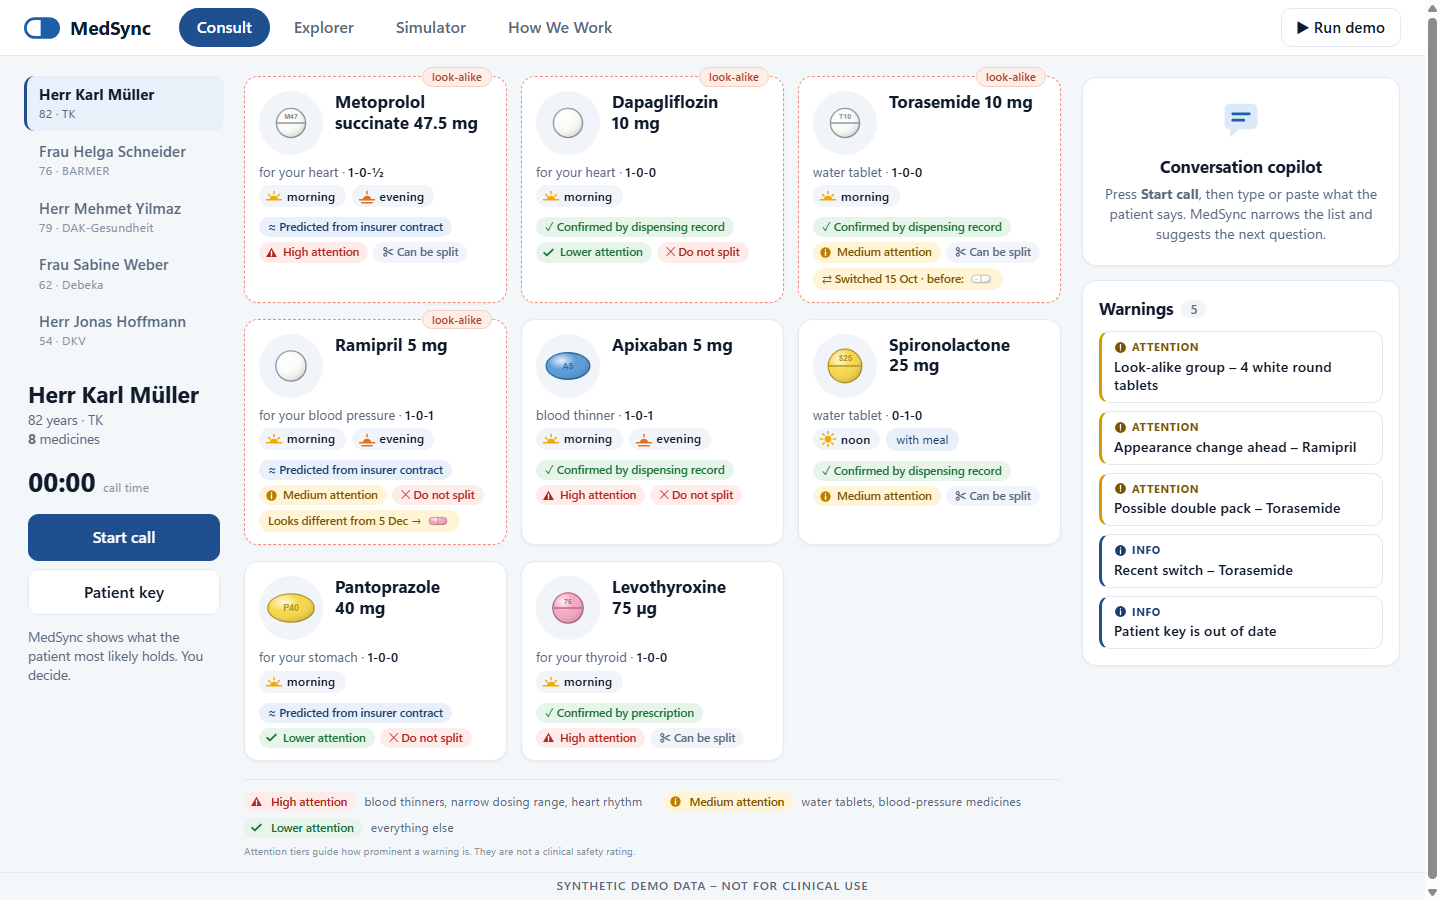
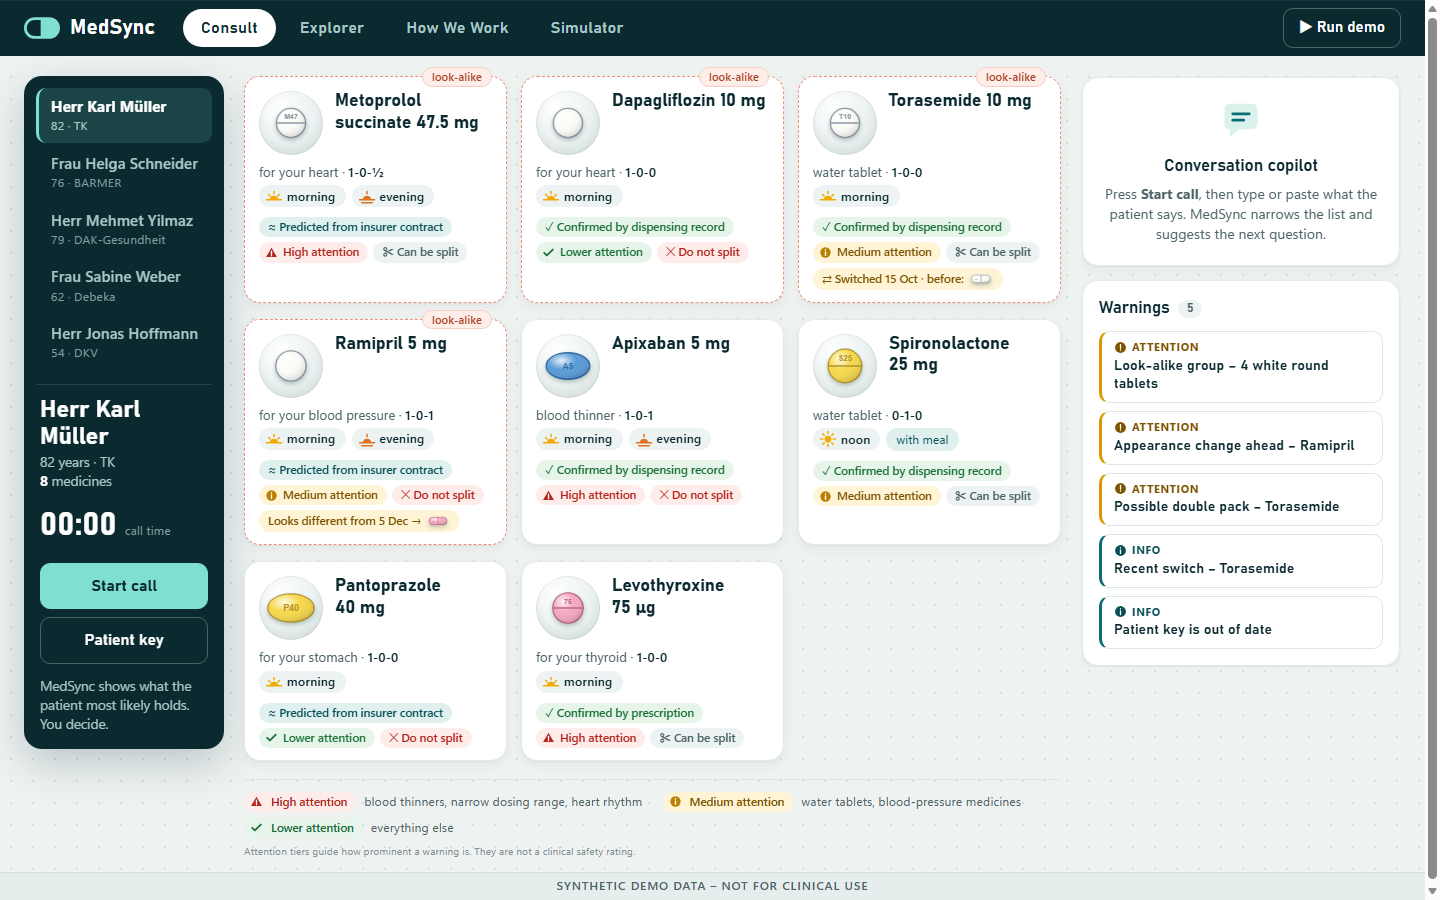
Visual identity: petrol frame, DIN-style headings, shaded pill pictures

diff --git a/app/l8_ui/static/styles.css b/app/l8_ui/static/styles.css
@@ -453,3 +453,88 @@ body.demo-on .toasts { bottom: calc(var(--foot-h) + 104px); }
   .page { padding: 20px 16px; }
   .same-rx { padding: 18px; gap: 16px; }
 }
+
+/* ==========================================================================================================
+   Identity layer. Petrol ink frame, a light counting-tray canvas, DIN-style headings (Bahnschrift on Windows),
+   and pill pictures lit like objects on a tray. Colour and type only: no layout or behaviour changes.
+   ========================================================================================================== */
+:root {
+  --ink: #0b2a30; --soft: #4d6468; --mute: #7d9195; --line: #dde6e5; --fill: #edf3f2; --bg: #eef3f2;
+  --blue: #0b6b75; --blue-dark: #084f57; --blue-soft: #dff0ee; --mint: #7fe0d0; --rail: #0b2a30; --rail-soft: #a9c6c8;
+  --shadow: 0 1px 2px rgba(11, 42, 48, .06), 0 4px 14px rgba(11, 42, 48, .05); --shadow-up: 0 14px 40px rgba(11, 42, 48, .22);
+  --display: Bahnschrift, "DIN Alternate", "Roboto Condensed", "Segoe UI Variable Display", "Segoe UI", system-ui, sans-serif;
+}
+body { font-family: "Segoe UI Variable Text", "Segoe UI", system-ui, -apple-system, Roboto, Arial, sans-serif;
+  background: var(--bg) radial-gradient(circle, #d3dedd 1px, transparent 1.3px) 0 0 / 22px 22px; }
+h1, h2, h3, .brand, .tab, .btn, .timer span, .seq, .ring text, .step, .rec-title, .sim-btn b, #demo-title, .key-line, .dose {
+  font-family: var(--display); font-stretch: 92%; }
+h1 { font-weight: 700; letter-spacing: -.005em; } h2, h3 { font-weight: 600; letter-spacing: 0; }
+
+/* frame: dark top bar */
+.top { background: var(--rail); border-bottom: 0; box-shadow: 0 1px 0 rgba(255, 255, 255, .06) inset; }
+.brand { color: #fff; font-size: 1.3rem; letter-spacing: .01em; }
+.tab { color: var(--rail-soft); font-weight: 600; font-size: 1.02rem; letter-spacing: .01em; }
+.tab:hover { background: rgba(255, 255, 255, .09); color: #fff; }
+.tab.on { background: #fff; color: var(--ink); }
+.top .btn.ghost { color: #fff; border-color: rgba(255, 255, 255, .28); }
+.top .btn.ghost:hover { background: rgba(255, 255, 255, .1); border-color: var(--mint); }
+.top :focus-visible, .col-left :focus-visible, .demo-bar :focus-visible, .story-hero :focus-visible { outline-color: var(--mint); }
+.synthetic { background: #e6eded; border-top-color: #d5dfde; color: var(--soft); }
+
+/* frame: dark patient rail */
+.consult .col-left { background: var(--rail); color: #fff; border-radius: 18px; padding: 12px 12px 16px; box-shadow: var(--shadow-up); }
+.col-left .patient-chip { color: var(--rail-soft); }
+.col-left .patient-chip span { color: #7f9fa2; }
+.col-left .patient-chip:hover { background: rgba(255, 255, 255, .07); }
+.col-left .patient-chip.on { background: rgba(127, 224, 208, .14); border-left-color: var(--mint); color: #fff; }
+.col-left .patient-chip.on span { color: var(--rail-soft); }
+.col-left .patient-head { padding: 12px 4px 0; border-top: 1px solid rgba(255, 255, 255, .12); }
+.col-left .patient-head h1 { color: #fff; font-size: 1.5rem; line-height: 1.15; }
+.col-left .patient-head p { color: var(--rail-soft); }
+.col-left .patient-head p b { color: #fff; }
+.col-left .timer span { color: #fff; font-size: 2rem; letter-spacing: .01em; }
+body.in-call .col-left .timer span { color: var(--mint); }
+.col-left .timer small, .col-left .hint { color: #7f9fa2; }
+.col-left .btn { background: transparent; color: #fff; border-color: rgba(255, 255, 255, .26); }
+.col-left .btn:hover { background: rgba(255, 255, 255, .09); border-color: rgba(255, 255, 255, .5); }
+.col-left .btn.primary { background: var(--mint); border-color: var(--mint); color: var(--ink); font-weight: 700; }
+.col-left .btn.primary:hover { background: #a3ecdf; border-color: #a3ecdf; }
+
+/* the pills: lit objects on a tray */
+.pill-box, .rx-pill, .loop-value.pill { background: radial-gradient(circle at 34% 28%, #ffffff 0%, #eef4f3 46%, #d9e5e3 100%);
+  box-shadow: inset 0 0 0 1px rgba(11, 42, 48, .07), inset 0 -6px 10px rgba(11, 42, 48, .05); }
+.pill-box svg, .rx-pill svg, .mini-pill svg, .key-pill svg, .loop-value.pill svg, .half-pill svg {
+  filter: drop-shadow(0 2px 2px rgba(11, 42, 48, .28)); }
+.card { border-radius: 16px; border-color: #e3ebea; }
+.card.lookalike { border-color: var(--coral); }
+.card-main h3, .card-top h3 { font-size: 1.14rem; font-weight: 700; }
+.card.glow { border-color: var(--blue); box-shadow: 0 0 0 3px var(--mint), 0 10px 26px rgba(11, 107, 117, .22); }
+.ti, .chain, .badge { background-color: var(--fill); }
+.badge.conf.contract { background: var(--blue-soft); color: var(--blue-dark); }
+
+/* panels */
+#copilot, #warnings, .pane, .sim-live, .sim-btn, .blind-flow li, .loop-node { border-radius: 16px; border-color: #e3ebea; }
+.bubble { background: var(--rail); }
+.bubble small { color: var(--mint); opacity: 1; }
+.bubble .why { color: var(--rail-soft); }
+.bubble.done { background: #17603a; } .bubble.done small { color: #b9f0cd; } .bubble.done .why { color: #d3f3df; }
+.btn.confirm { color: #17603a; }
+.count, .step { font-variant-numeric: tabular-nums; }
+.page-head h1 { font-size: 2rem; }
+.page-head p { color: var(--soft); }
+.sim-btn b { font-size: 1.15rem; }
+.demo-bar { background: var(--rail); border: 1px solid rgba(255, 255, 255, .1); }
+.demo-progress { background: rgba(255, 255, 255, .14); } .demo-progress i { background: var(--mint); }
+.toast { background: var(--rail); }
+.side-panel, .modal-card { border-radius: 0; } .modal-card { border-radius: 20px; }
+.modal { background: rgba(11, 42, 48, .55); }
+
+/* How We Work: the opening statement on the dark frame */
+.story .story-hero { background: var(--rail); color: #fff; border-radius: 24px; padding: 48px 48px 44px; box-shadow: var(--shadow-up); }
+.story .story-hero h1 { color: #fff; font-size: clamp(2.1rem, 4.4vw, 3.4rem); line-height: 1.04; max-width: 17ch; font-stretch: 88%; }
+.story .story-hero .story-lead { color: var(--rail-soft); }
+.story .story-hero .same-rx { color: var(--ink); margin-top: 8px; }
+.story h2 { font-size: 1.5rem; }
+.blind-flow li::before { background: var(--rail); color: var(--mint); }
+@media (max-width: 760px) { .story .story-hero { padding: 28px 20px; border-radius: 18px; } .consult { padding: 14px 12px 0; } }
+.story .story-hero h1 { max-width: 11.5em; }

diff --git a/app/l8_ui/templates/base.html b/app/l8_ui/templates/base.html
@@ -11,7 +11,7 @@
   <a class="skip" href="#main">Skip to content</a>
   <header class="top">
     <a class="brand" href="/consult" aria-label="MedSync home">
-      <svg viewBox="0 0 40 24" aria-hidden="true"><rect x="1.5" y="1.5" width="37" height="21" rx="10.5" fill="#fff" stroke="#1d5fa8" stroke-width="3"/><path d="M20 1.5v21" stroke="#1d5fa8" stroke-width="3"/><path d="M20 1.5h8a10.5 10.5 0 0 1 0 21h-8z" fill="#1d5fa8"/></svg>
+      <svg viewBox="0 0 40 24" aria-hidden="true"><rect x="1.5" y="1.5" width="37" height="21" rx="10.5" fill="none" stroke="#7fe0d0" stroke-width="3"/><path d="M20 1.5v21" stroke="#7fe0d0" stroke-width="3"/><path d="M20 1.5h8a10.5 10.5 0 0 1 0 21h-8z" fill="#7fe0d0"/></svg>
       <span>MedSync</span>
     </a>
     <nav aria-label="Main">

diff --git a/app/l8_ui/templates/_copilot.html b/app/l8_ui/templates/_copilot.html
@@ -1,6 +1,6 @@
 {% if not call %}
 <div class="copilot-empty">
-  <svg viewBox="0 0 48 48" aria-hidden="true"><path d="M6 10a6 6 0 0 1 6-6h24a6 6 0 0 1 6 6v16a6 6 0 0 1-6 6H22l-10 9v-9a6 6 0 0 1-6-6z" fill="#dbe9f8"/><path d="M15 15h18M15 22h12" stroke="#1d5fa8" stroke-width="3" stroke-linecap="round"/></svg>
+  <svg viewBox="0 0 48 48" aria-hidden="true"><path d="M6 10a6 6 0 0 1 6-6h24a6 6 0 0 1 6 6v16a6 6 0 0 1-6 6H22l-10 9v-9a6 6 0 0 1-6-6z" fill="#d9f2ec"/><path d="M15 15h18M15 22h12" stroke="#0b6b75" stroke-width="3" stroke-linecap="round"/></svg>
   <h2>Conversation copilot</h2>
   <p>Press <b>Start call</b>, then type or paste what the patient says. MedSync narrows the list and suggests the next question.</p>
 </div>

diff --git a/docs/ASSUMPTIONS.md b/docs/ASSUMPTIONS.md
@@ -149,3 +149,10 @@ Where the specification was silent, the simplest option that keeps the live demo
 - The scripted demo was shortened to finish in under 50 seconds (43 seconds of step time, about 44 measured in
   the browser). Only step durations and pauses changed; the steps and what they show are the same. The three
   sentences of the call now follow one another with a two-second pause instead of five and a half.
+
+## Visual identity round
+
+- The look was pushed further with styling only: a dark petrol top bar and patient rail, a light canvas with a
+  faint dot grid, pill pictures shaded like objects on a tray, and a dark opening panel on How We Work.
+- Headings use Bahnschrift, the DIN-style typeface that ships with Windows, with system fonts as fallback.
+  No font file is bundled, so phones and Macs show their own system font for headings.
